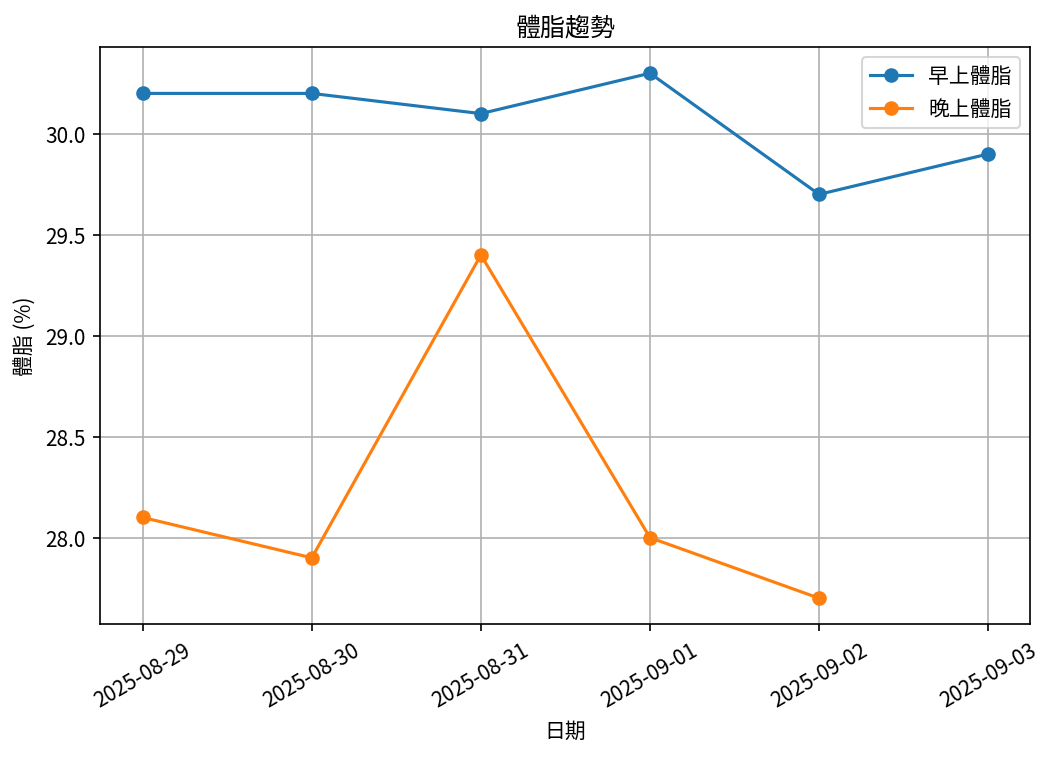
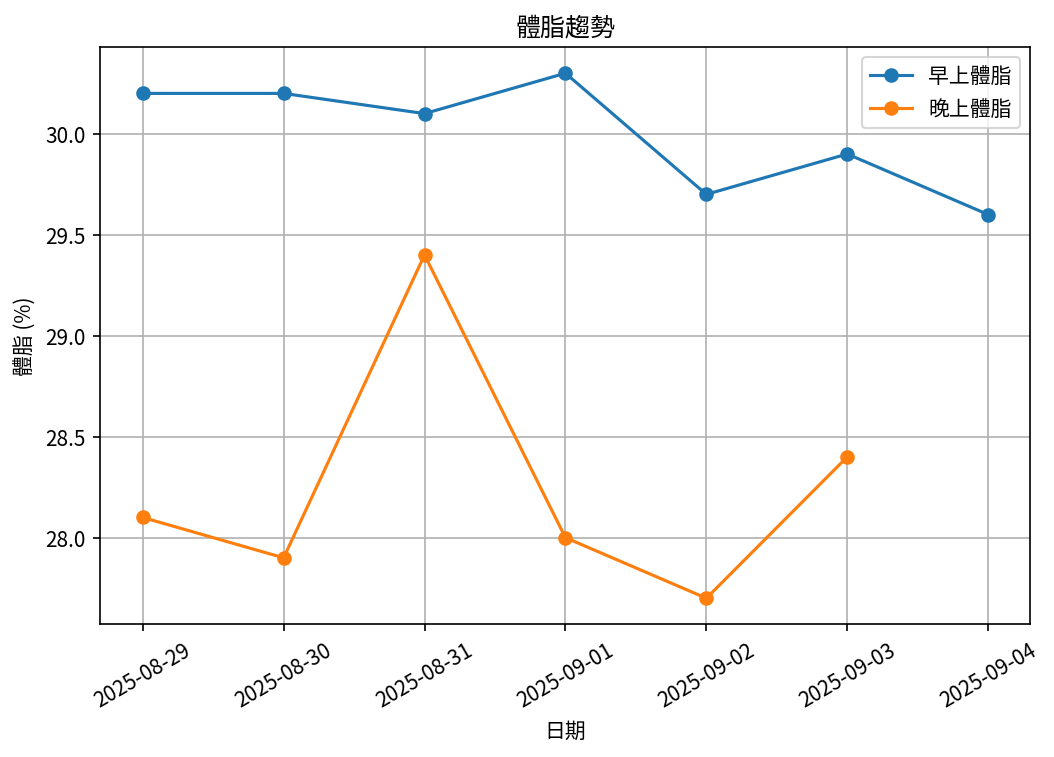
update valeus

diff --git a/reports/summary/overall_summary_report.md b/reports/summary/overall_summary_report.md
@@ -1,7 +1,7 @@
 # 📊 減重總結報告
 
-**總期間：2025/08/15 ～ 2025/09/03**  
-**追蹤期間：20 天 (3 週)**  
+**總期間：2025/08/15 ～ 2025/09/04**  
+**追蹤期間：21 天 (3 週)**  
 
 ---
 
@@ -13,13 +13,13 @@
 |:-----------|:------------|:------------|:-----------|:-----------|
 | 08/15 (週五) | 109.0       | 109.8       | nan        | 29.0       |
 | ...        | ...         | ...         | ...        | ...        |
-| 08/28 (週四) | 104.8       | 105.5       | 30.4       | 27.9       |
 | 08/29 (週五) | 105.1       | 104.7       | 30.2       | 28.1       |
 | 08/30 (週六) | 104.3       | 104.2       | 30.2       | 27.9       |
 | 08/31 (週日) | 103.6       | 104.1       | 30.1       | 29.4       |
 | 09/01 (週一) | 104.0       | 103.6       | 30.3       | 28.0       |
 | 09/02 (週二) | 103.9       | 103.9       | 29.7       | 27.7       |
-| 09/03 (週三) | 103.4       | nan         | 29.9       | nan        |
+| 09/03 (週三) | 103.4       | 103.4       | 29.9       | 28.4       |
+| 09/04 (週四) | 103.0       | nan         | 29.6       | nan        |
 
 ---
 
@@ -32,24 +32,24 @@
 
 ## 📌 總體統計
 
-- **體重（AM）**：109.0 → 103.4 kg  (**-5.6 kg**), 總平均 106.0 kg  
-- **體重（PM）**：109.8 → 103.9 kg  (**-5.9 kg**), 總平均 106.5 kg  
-- **體重（AM+PM 平均）**：106.2 kg  
+- **體重（AM）**：109.0 → 103.0 kg  (**-6.0 kg**), 總平均 105.9 kg  
+- **體重（PM）**：109.8 → 103.4 kg  (**-6.4 kg**), 總平均 106.3 kg  
+- **體重（AM+PM 平均）**：106.1 kg  
 
-- **體脂（AM）**：30.3% → 29.9%  (**-0.4%**), 總平均 30.3%  
-- **體脂（PM）**：29.0% → 27.7%  (**-1.3%**), 總平均 28.3%  
+- **體脂（AM）**：30.3% → 29.6%  (**-0.7%**), 總平均 30.2%  
+- **體脂（PM）**：29.0% → 28.4%  (**-0.6%**), 總平均 28.3%  
 - **體脂（AM+PM 平均）**：29.3%  
 
-- **追蹤天數**：20 天  
-- 平均每週體重變化（AM）：-1.9 kg/週  
-- 平均每週體重變化（PM）：-2.0 kg/週
+- **追蹤天數**：21 天  
+- 平均每週體重變化（AM）：-2.0 kg/週  
+- 平均每週體重變化（PM）：-2.1 kg/週
 
 ---
 
 ## 🎯 重點成果
 
-✅ **體重減少**：在 20 天內減重 5.6 kg（早上測量）  
-✅ **體脂下降**：體脂率降低 1.3%（晚上測量）  
+✅ **體重減少**：在 21 天內減重 6.0 kg（早上測量）  
+✅ **體脂下降**：體脂率降低 0.6%（晚上測量）  
 
 ## ✅ 持續建議
 - 維持 **高蛋白 (每公斤 1.6–2.0 g)** 與 **每週 2–3 次阻力訓練**  

diff --git a/reports/2025-CW03/2025-CW03_weekly_report.md b/reports/2025-CW03/2025-CW03_weekly_report.md
@@ -13,7 +13,8 @@
 | 08/31 (週日) |       103.6 |       104.1 |       30.1 |       29.4 |
 | 09/01 (週一) |       104   |       103.6 |       30.3 |       28   |
 | 09/02 (週二) |       103.9 |       103.9 |       29.7 |       27.7 |
-| 09/03 (週三) |       103.4 |       nan   |       29.9 |      nan   |
+| 09/03 (週三) |       103.4 |       103.4 |       29.9 |       28.4 |
+| 09/04 (週四) |       103   |       nan   |       29.6 |      nan   |
 
 ---
 
@@ -26,15 +27,15 @@
 
 ## 📌 本週統計
 
-- 體重（AM）：105.1 → 103.4 kg  (**-1.7 kg**), 週平均 104.0 kg  
-- 體重（PM）：104.7 → 103.9 kg  (**-0.8 kg**), 週平均 104.1 kg  
-- 體重（AM+PM 平均）：104.1 kg  
+- 體重（AM）：105.1 → 103.0 kg  (**-2.1 kg**), 週平均 103.9 kg  
+- 體重（PM）：104.7 → 103.4 kg  (**-1.3 kg**), 週平均 104.0 kg  
+- 體重（AM+PM 平均）：103.9 kg  
 
-- 體脂（AM）：30.2% → 29.9%  (**-0.3%**), 週平均 30.1%  
-- 體脂（PM）：28.1% → 27.7%  (**-0.4%**), 週平均 28.2%  
+- 體脂（AM）：30.2% → 29.6%  (**-0.6%**), 週平均 30.0%  
+- 體脂（PM）：28.1% → 28.4%  (**0.3%**), 週平均 28.2%  
 - 體脂（AM+PM 平均）：29.1%  
 
-- 紀錄天數：6 天
+- 紀錄天數：7 天
 
 ---
 
